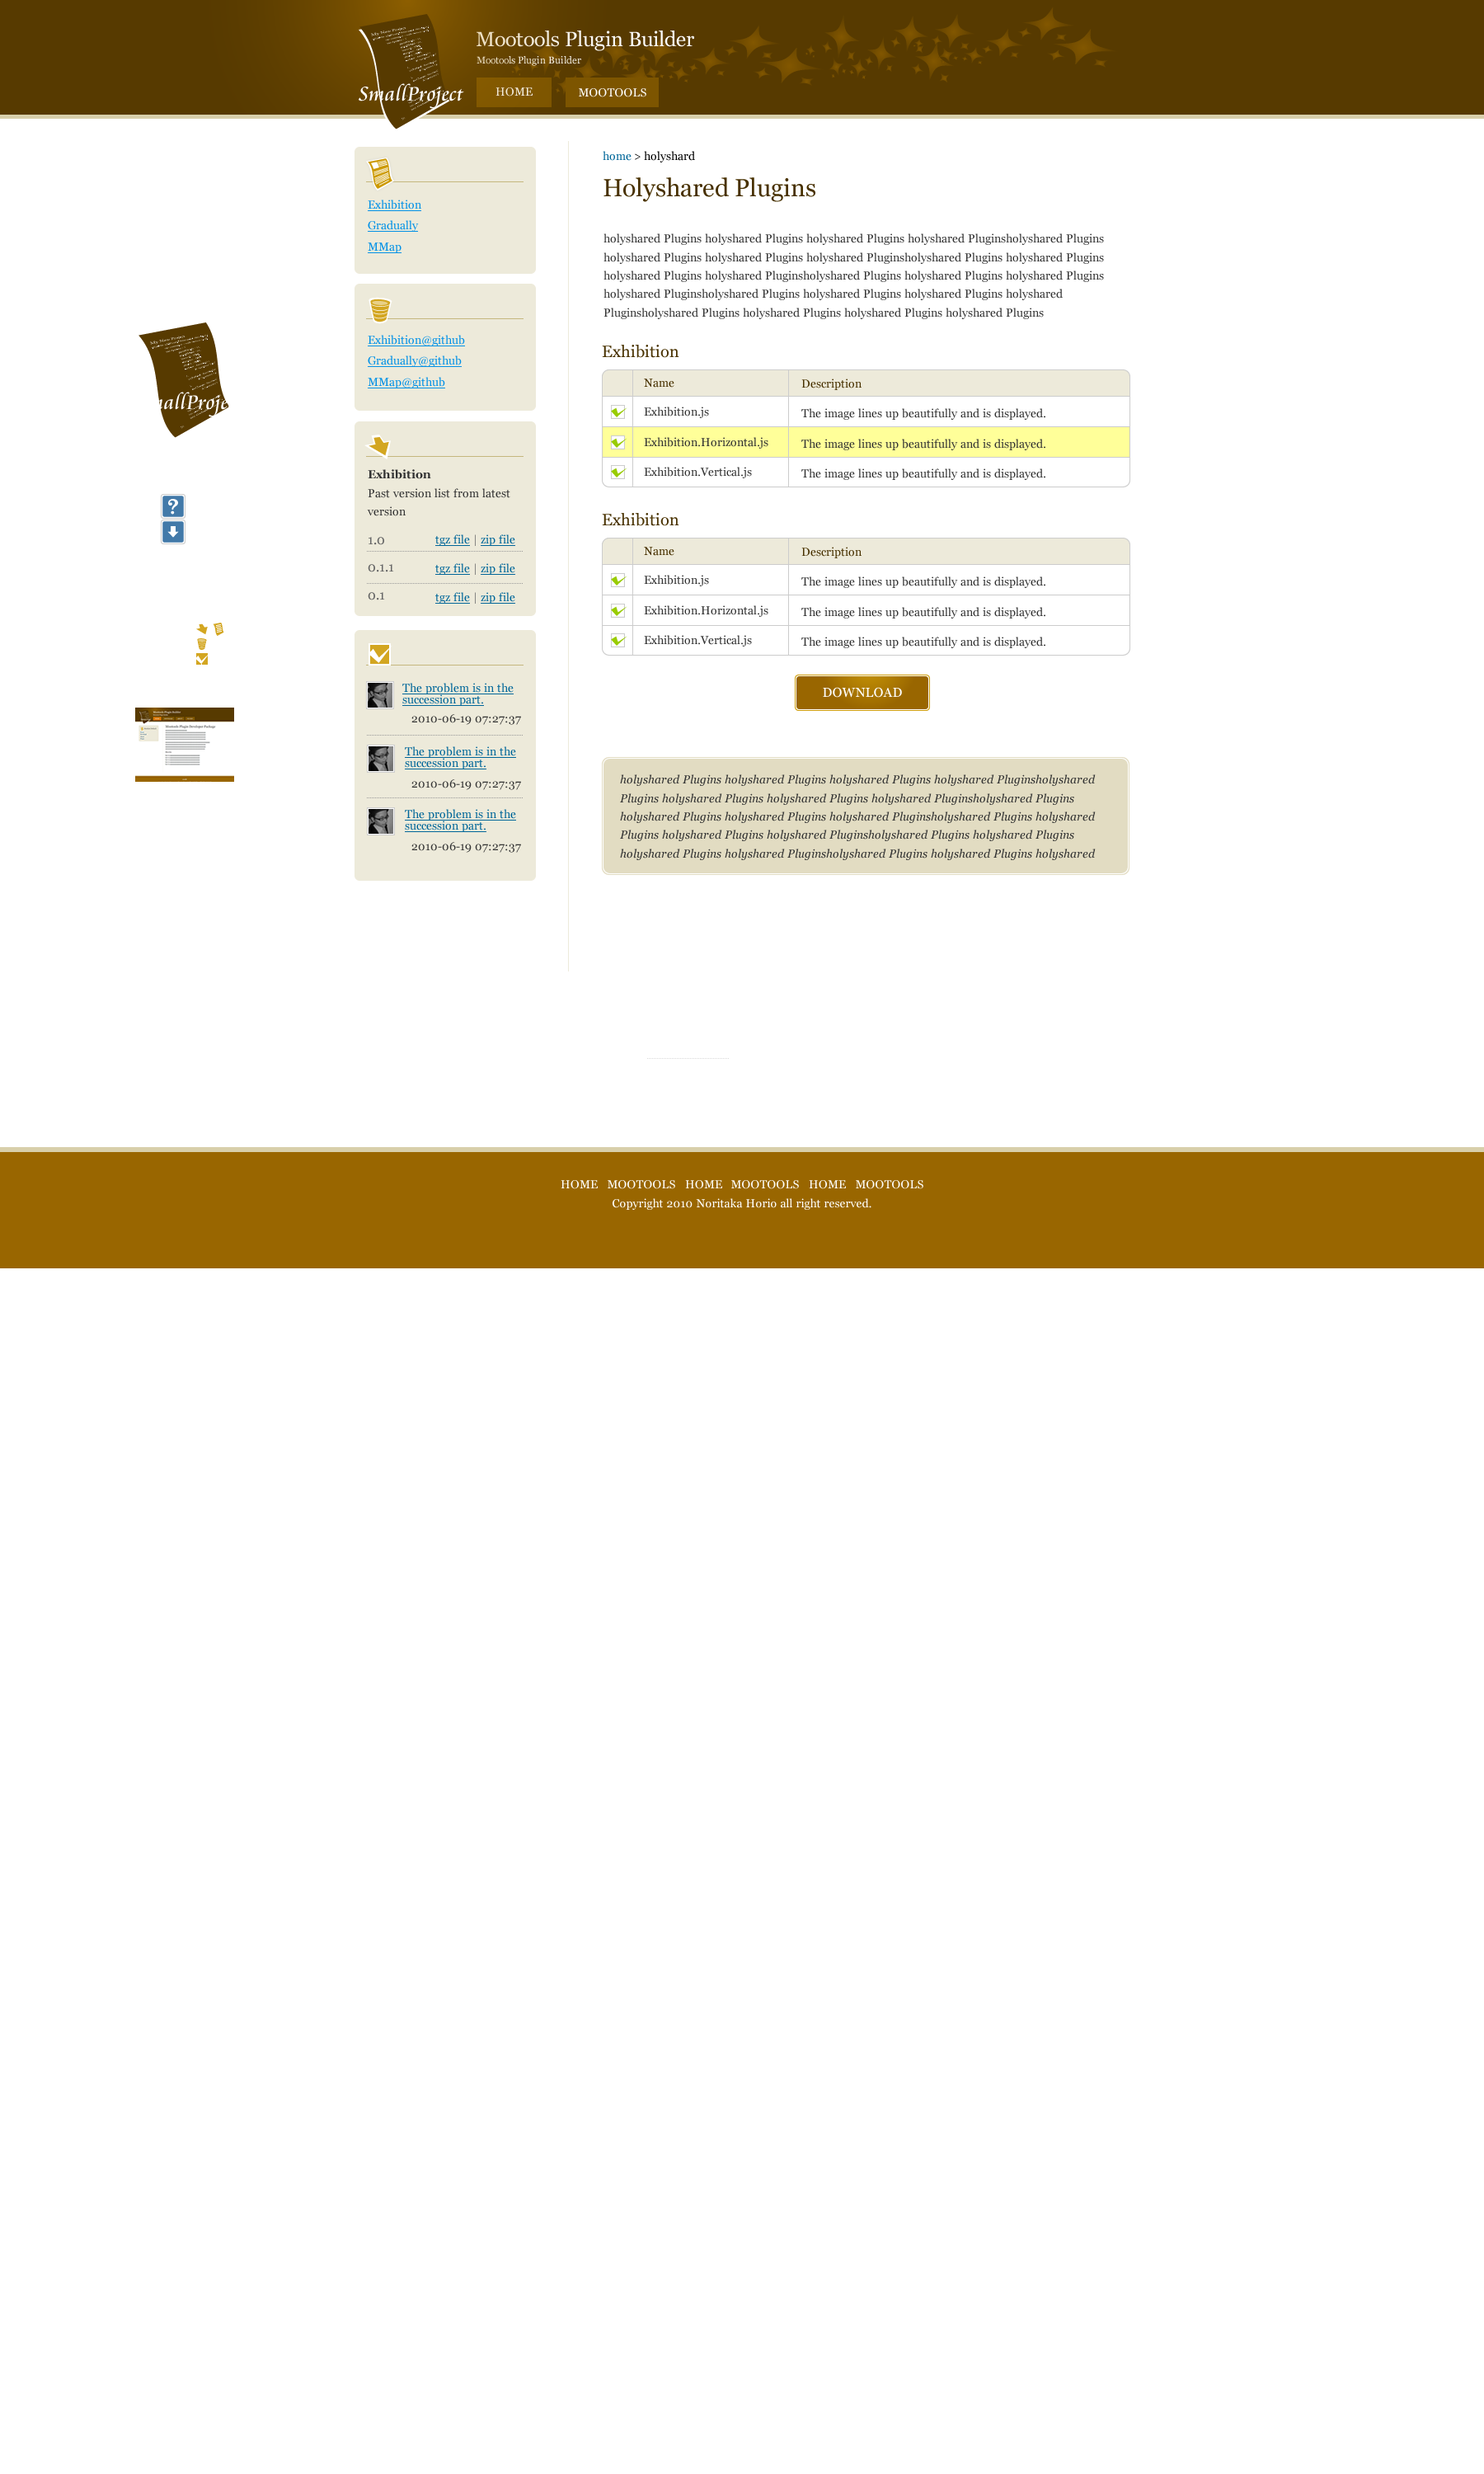
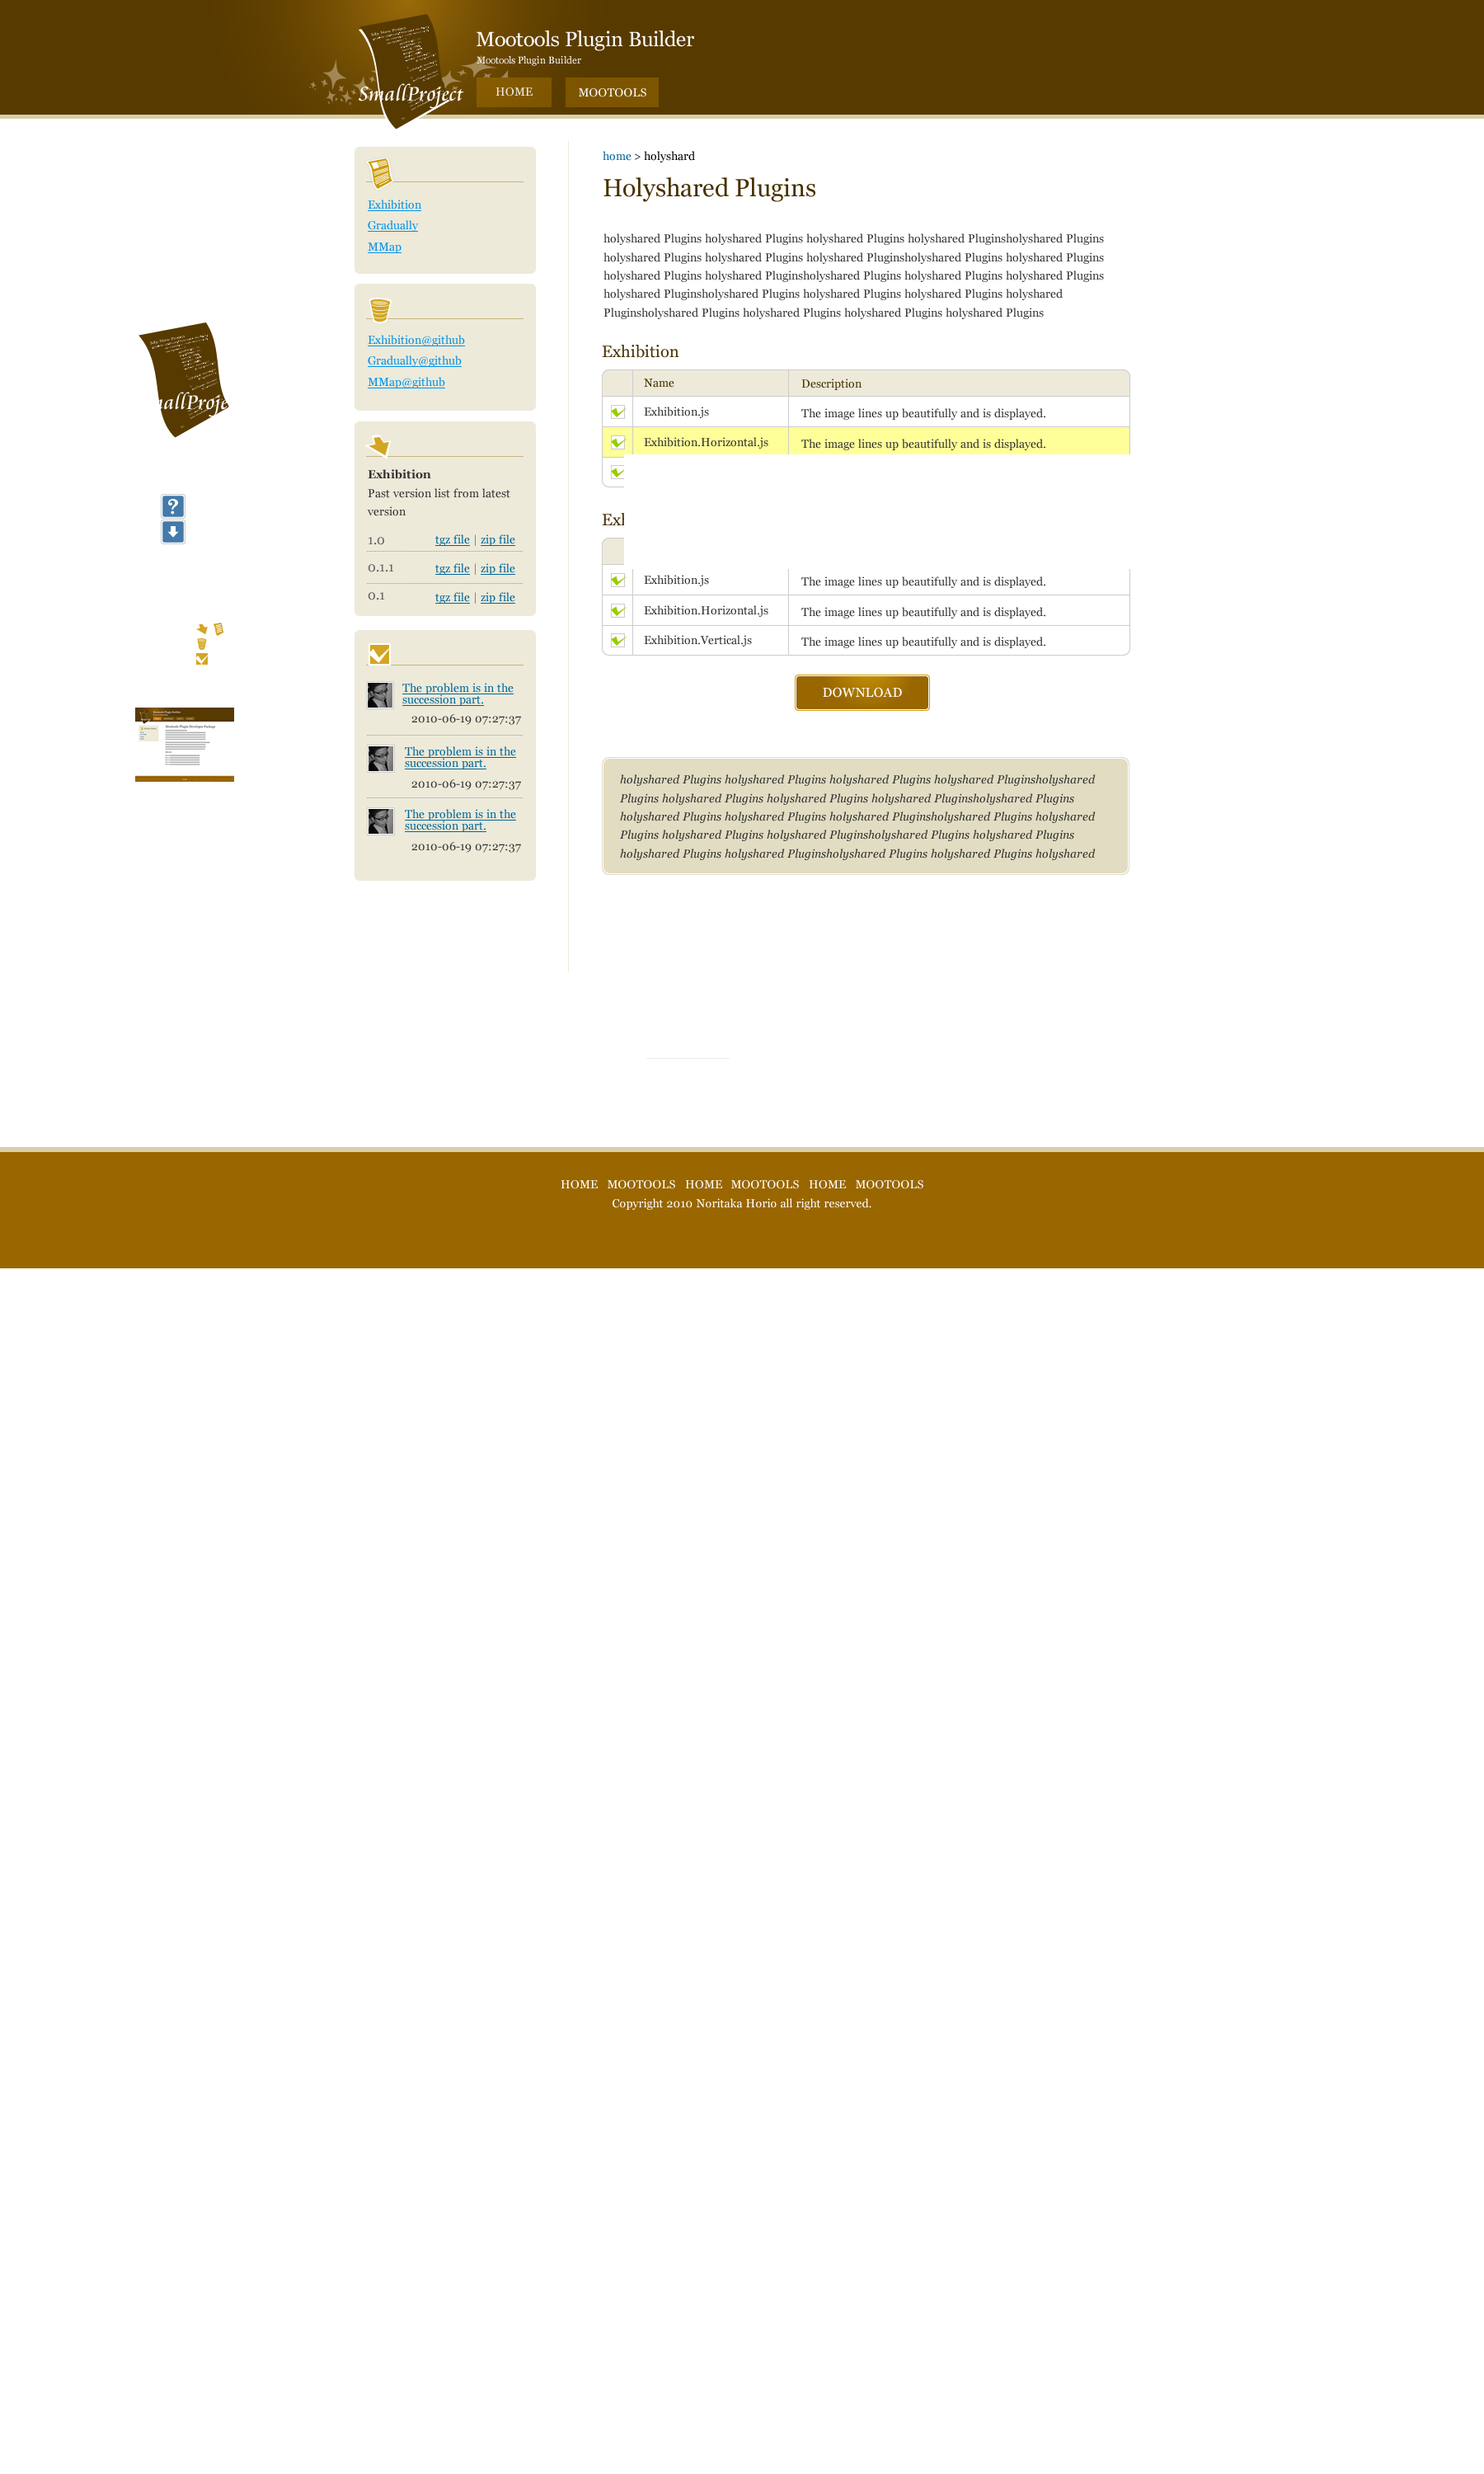
Oops!! leftCol 200px -> 220px(bugfixed.)

diff --git a/packages/frontend_developer/themes/small_project/css/template.css b/packages/frontend_developer/themes/small_project/css/template.css
@@ -3,7 +3,7 @@
 /* ====== Page Head, Body, and Foot ====== */
 body{_text-align:center;}/* IE5.5 */
 .main{display:table-cell;*display:block;width:auto; }
-.body { background: url(images/bgi_sep.gif) repeat-y 255px top; }
+.body { background: url(images/bgi_sep.gif) repeat-y 271px top; }
 .body,.main{*zoom:1; }
 .body:after,.main:after{clear:both;display:block;visibility:hidden;overflow:hidden;height:0 !important;line-height:0;font-size:xx-large;content:" x x x x x x x x x x x x x x x x x x x x x x x x x x x x x x x x x x x x x x x x x x x x x x x x x x x x x x x x x x x x x x x x x x x x x x x x x x x x x x x x x x x x x x x x x x x x ";}
 .page{margin:0 auto;width:950px;_text-align:left;} /* wraps other template elems to set width */ /* text-align IE5.5 */
@@ -12,18 +12,17 @@ body{_text-align:center;}/* IE5.5 */
 .gs960{width:960px;}
 .liquid{width:auto;margin:0; background: none; }
 /* ====== Columns ====== */
-.leftCol{float:left;width:250px;_margin-right:-3px; margin-right: 50px; }
-.rightCol{float:right;width:300px;_margin-left:-3px;}
+.leftCol{float:left;width:250px;_margin-right:-3px; }
+.rightCol{float:right;width:300px;_margin-left:-3px; }
 /* extend columns to allow for common column widths */
 .gMail{width:160px;}
 .gCal{width:180px;}
 .yahoo{width:240px;}
 .myYahoo{width:300px;}
-.mBuilder{ width:220px; margin-right: 60px; }
 
-.page {
-	padding-top: 178px;
-}
+.mBuilder { width: 640px; padding-left: 70px; }
+
+.page { padding-top: 178px; }
 
 .head {
 	background: #573A00 url(images/bgi_logo.png) no-repeat center top;

diff --git a/packages/frontend_developer/themes/small_project/typography.css b/packages/frontend_developer/themes/small_project/typography.css
@@ -28,7 +28,7 @@ ul, ol, dl, p, th, td {
 }
 
 p, ul, ol, dl {
-	margin-bottom: 10px;
+	margin-bottom: 15px;
 }
 
 h1, h2, h3, h4, h5, h6, img {
@@ -91,7 +91,7 @@ h3, .h3 {
 
 h4, .h4 {
 	font-size: 139%;
-	font-weight: normal;
+	font-weight: bold;
 	font-style: normal;
 	color: #333;
 	padding: 3px 0px 5px 0px;
@@ -139,6 +139,7 @@ ol.simpleList li {
 ul.simpleList li {
 	list-style-type: disc;
 	margin-left: 20px;
+	margin-bottom: 10px;
 }
 
 .separator li {

diff --git a/packages/frontend_developer/themes/small_project/css/contents.css b/packages/frontend_developer/themes/small_project/css/contents.css
@@ -1,5 +1,12 @@
 @charset "utf-8";
 
+iframe {
+	border: 1px solid #cccccc;
+	padding: 0px;
+	margin: 0px;
+	display: inline-block;
+}
+
 /* ====== Tables ====== */
 table {
 	border-collapse: separate;
@@ -121,6 +128,10 @@ table tr.selected td {
 
 .nav-local li {
 	margin-bottom: 5px;
+}
+
+.nav-local li ul {
+	margin-top: 3px;
 }
 
 .nav-local a.nav-selected {

diff --git a/packages/frontend_developer/themes/small_project/css/sh.css b/packages/frontend_developer/themes/small_project/css/sh.css
@@ -53,13 +53,14 @@
 }
 
 .syntaxhighlighter {
-  width: 100% !important;
+  width: 680px !important;
   margin: 14px 0px 10px 0px;
-  position: relative !important;
-  overflow: auto !important;
+  position: relative;
+  overflow: hidden;
   font-size: 108%;
   line-height: 160%;
 }
+
 .syntaxhighlighter.source {
   overflow: hidden !important;
 }

diff --git a/packages/frontend_developer/themes/small_project/css/mod.css b/packages/frontend_developer/themes/small_project/css/mod.css
@@ -38,6 +38,12 @@ version: 0.2
 .issues { background: url(images/bgi_issues.gif) no-repeat left top; }
 
 
+.local h4, .local .h4,
+.repos h4, .repos .h4, 
+.download h4, .download .h4,
+.issues h4, .issues .h4 {
+	font-weight: normal;
+}
 
 
 

diff --git a/packages/frontend_developer/themes/small_project/default.php b/packages/frontend_developer/themes/small_project/default.php
@@ -1,13 +1,13 @@
 <?php defined('C5_EXECUTE') or die(_("Access Denied.")); ?>
 <?php $this->inc('elements/header.php'); ?>
-<div class="body">
-	<div class="leftCol mBuilder">
+<div class="body gs960">
+	<div class="leftCol yahoo">
 		<?php 
 			$sidebar = new Area('Sidebar');
 			$sidebar->display($c);
 		?>
 	</div>
-	<div class="main">
+	<div class="main mBuilder">
 		<?php 
 			$main = new Area('Main');
 			$main->display($c);

diff --git a/packages/frontend_developer/themes/small_project/left_sidebar.php b/packages/frontend_developer/themes/small_project/left_sidebar.php
@@ -1,13 +1,13 @@
 <?php defined('C5_EXECUTE') or die(_("Access Denied.")); ?>
 <?php $this->inc('elements/header.php'); ?>
-<div class="body">
-	<div class="leftCol mBuilder">
+<div class="body gs960">
+	<div class="leftCol yahoo">
 		<?php 
 			$sidebar = new Area('Sidebar');
 			$sidebar->display($c);
 		?>
 	</div>
-	<div class="main">
+	<div class="main mBuilder">
 		<?php 
 			$main = new Area('Main');
 			$main->display($c);

diff --git a/packages/frontend_developer/themes/small_project/full.php b/packages/frontend_developer/themes/small_project/full.php
@@ -1,6 +1,6 @@
 <?php defined('C5_EXECUTE') or die(_("Access Denied.")); ?>
 <?php $this->inc('elements/header.php'); ?>
-<div class="body liquid">
+<div class="body gs960">
 	<div class="main">
 		<?php 
 			$main = new Area('Main');
